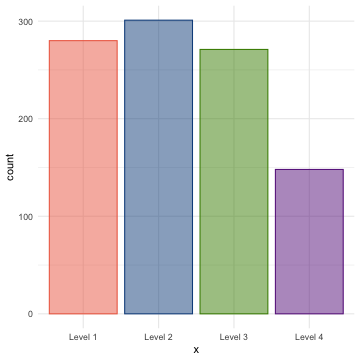
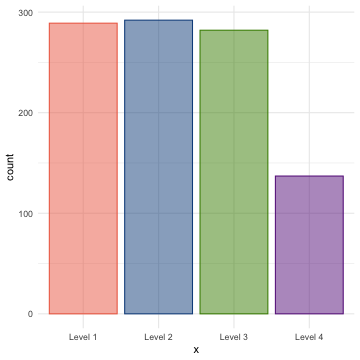
updated ch2

diff --git a/Slides/u01_Ch2_DataViz.html b/Slides/u01_Ch2_DataViz.html
@@ -121,11 +121,11 @@ Can see .dcoral[central tendency] (continuous data) or .dcoral[most common value
                     
                     ──────────────────────────────────────────────────────
                      x       Freq CumFreq Percent CumPerc Valid  CumValid
-                     1       251  251     25.10%  25.10%  25.82% 25.82%  
-                     2       248  499     24.80%  49.90%  25.51% 51.34%  
-                     3       241  740     24.10%  74.00%  24.79% 76.13%  
-                     4       232  972     23.20%  97.20%  23.87% 100.00% 
-                     Missing 28   1000    2.80%   100.00%                
+                     1       265  265     26.50%  26.50%  27.32% 27.32%  
+                     2       222  487     22.20%  48.70%  22.89% 50.21%  
+                     3       242  729     24.20%  72.90%  24.95% 75.15%  
+                     4       241  970     24.10%  97.00%  24.85% 100.00% 
+                     Missing 30   1000    3.00%   100.00%                
                     ──────────────────────────────────────────────────────
 ```
 
